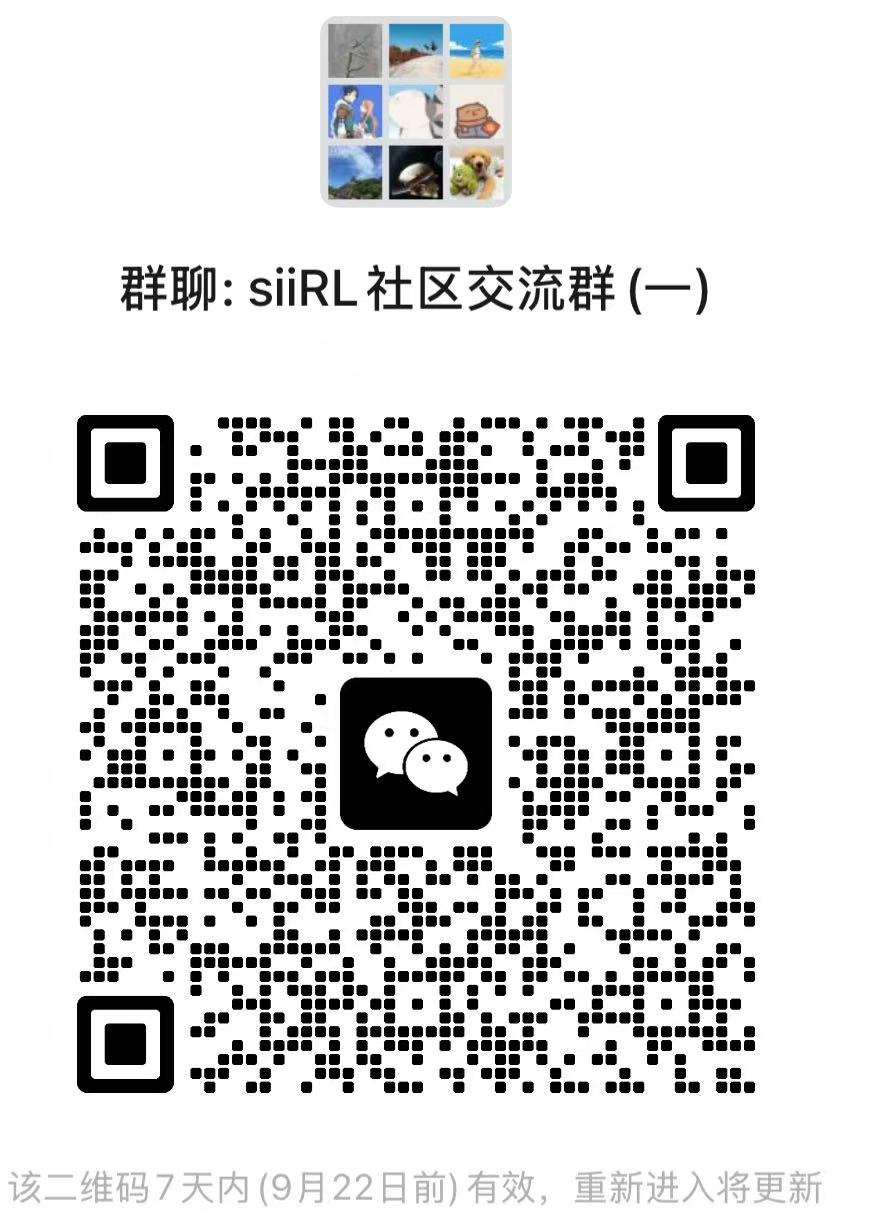
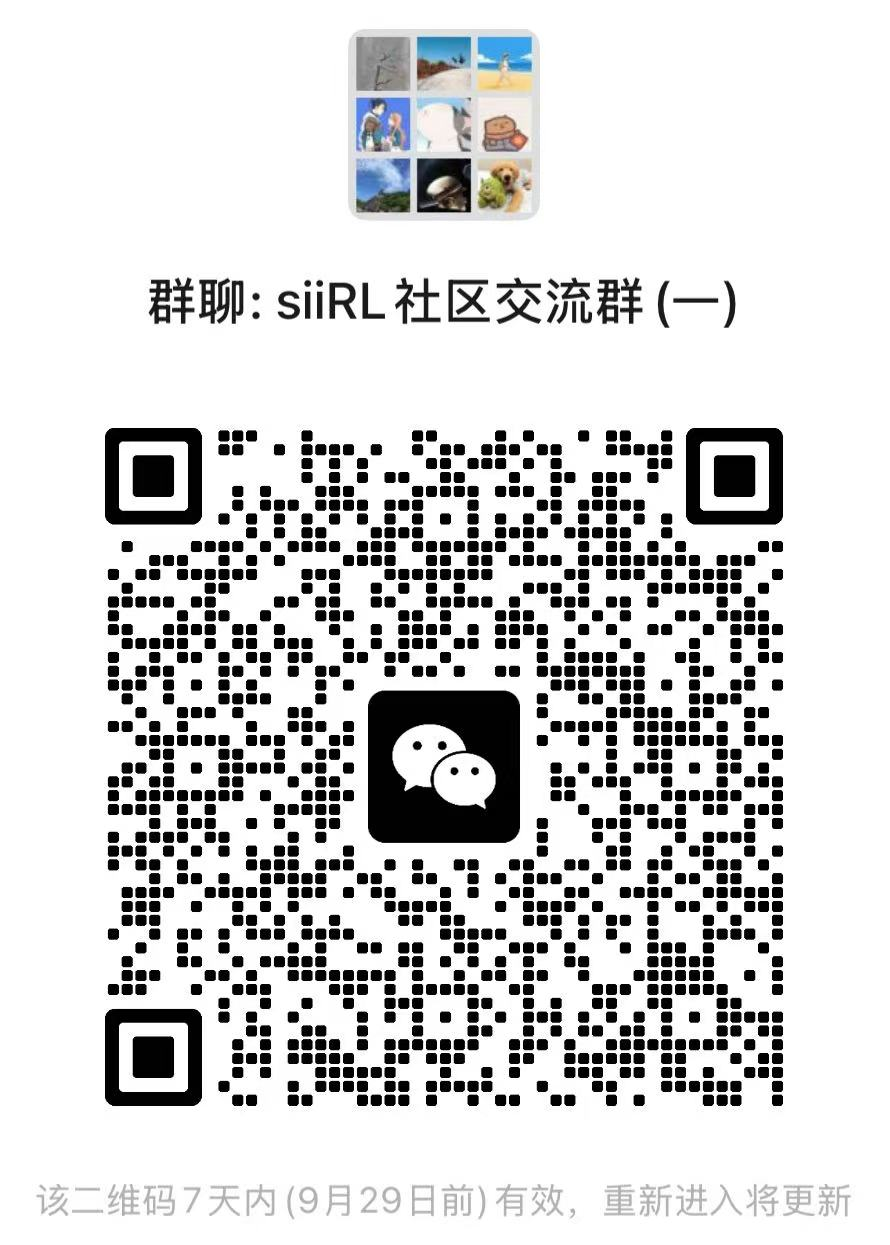
update wechat group

diff --git a/README.md b/README.md
@@ -48,7 +48,7 @@ By eliminating the centralized controller common in other frameworks, siiRL deli
 
 * **[2025/09]**:siiRL now integrates Megatron training backend with support for MoE training. Performance has been validated on Qwen3-MoE models (30B, 235B).
 
-* **[2025/09]**:siiRL now supports stable scaling on GPU clusters from 32 GPUs up to 1024 GPUs, with over 90% linear scalability efficiency, through collaboration with major manufacturers including Huawei Ascend, MetaX, and Alibaba Cloud.
+* **[2025/09]**:siiRL now supports stable scaling on GPU clusters from 32 GPUs up to 1024 GPUs, with over 90% linear scalability efficiency, through collaboration with major manufacturers including Huawei Ascend, MetaX, and Alibaba PPU.
 
 * **[2025/09]**:siiRL supports multi-turn interactions among multi-agents with the environment.
 
